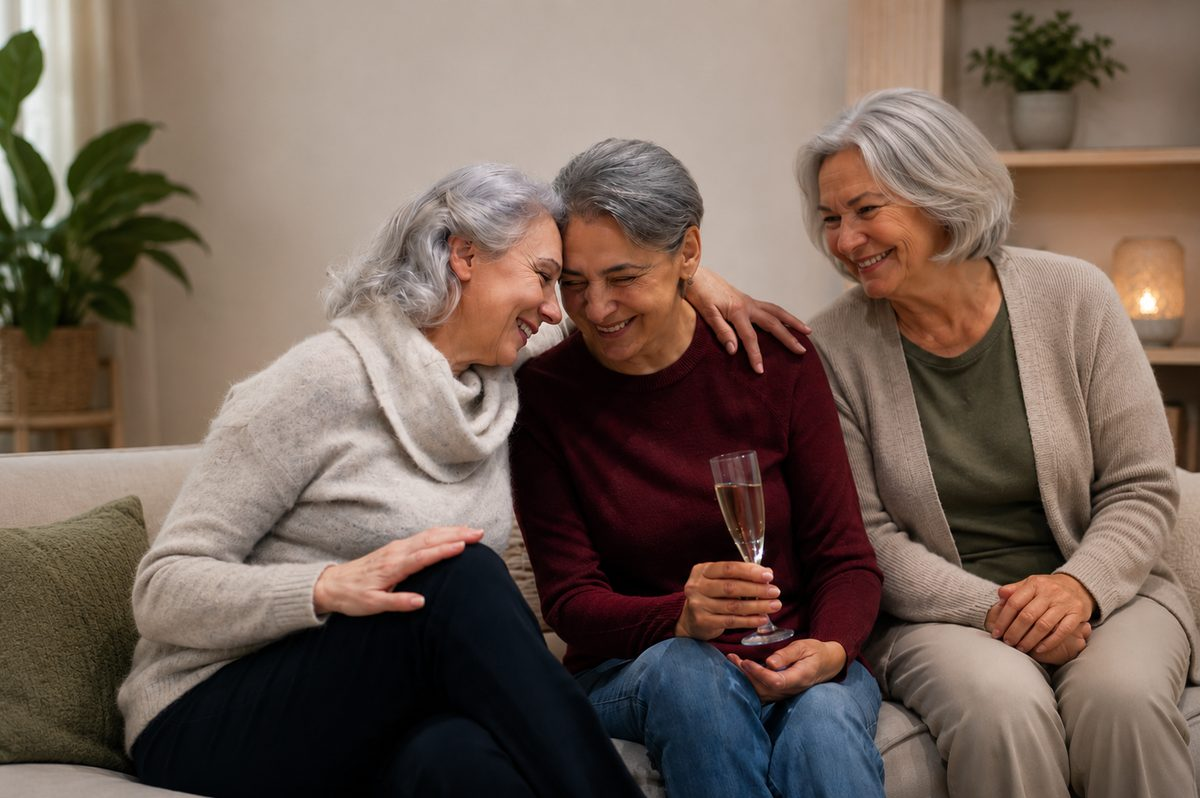
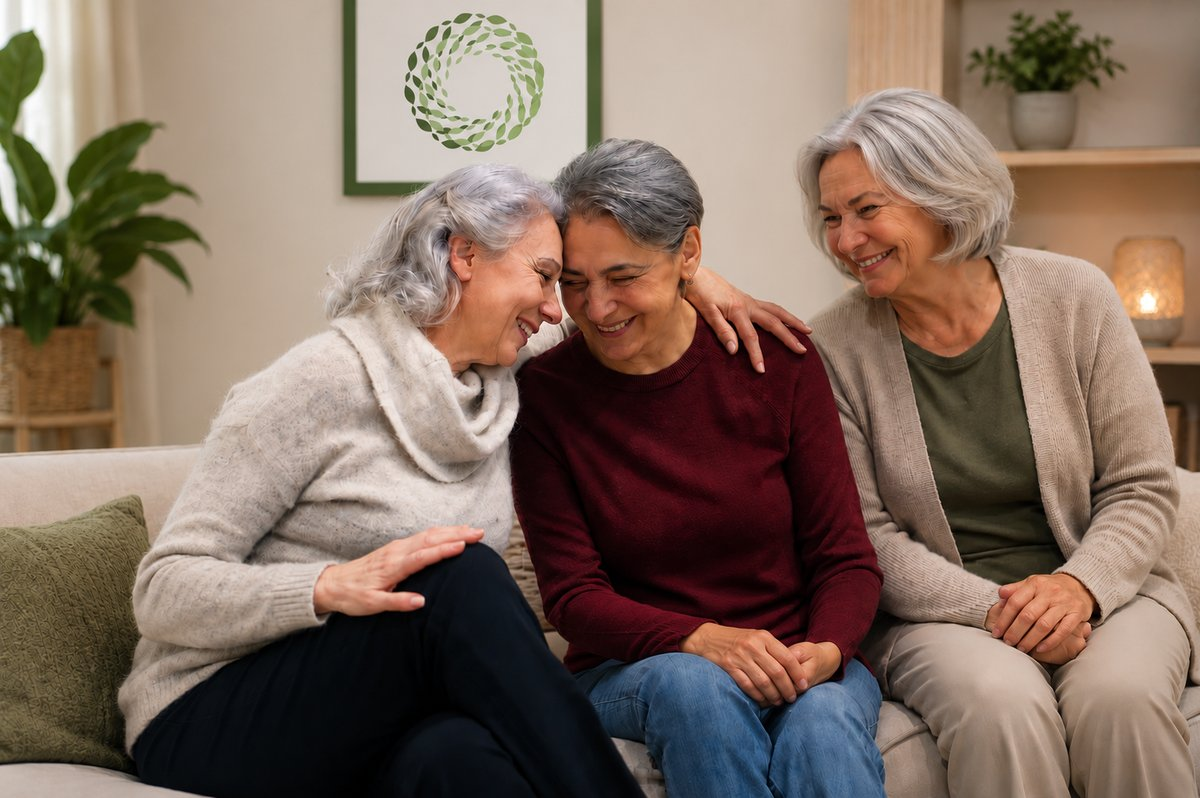
sin cava

diff --git a/js/data.js b/js/data.js
@@ -111,6 +111,23 @@ const EVENTS_DATA = [
     estat: 'proximament'
   },
   {
+    id: 'taller-angles-canpepus', tipo: 'taller',
+    titol: { ca: 'Conversa en anglès', es: 'Conversación en inglés' },
+    descripcio: {
+      ca: "Trobada setmanal per practicar l'anglès parlant, sense exàmens ni deures. Comencem pel que ja saps i anem fent. L'important és perdre la vergonya i passar-ho bé. Grup estable: la plaça et queda reservada per a totes les sessions.",
+      es: 'Encuentro semanal para practicar el inglés hablando, sin exámenes ni deberes. Empezamos por lo que ya sabes y vamos haciendo. Lo importante es perder la vergüenza y pasarlo bien. Grupo estable: la plaza te queda reservada para todas las sesiones.'
+    },
+    entitat: { ca: 'Casal de la Solidaritat Can Pepus', es: 'Casal de la Solidaritat Can Pepus' },
+    ubicacio: { ca: 'Can Pepus, Raval (Badalona)', es: 'Can Pepus, Raval (Badalona)' },
+    mapa_url: 'https://maps.google.com/?q=Casal+Can+Pepus+Badalona',
+    data: '2026-10-08', hora: '18:00', durada: 90,
+    data_label: { ca: 'Cada setmana', es: 'Cada semana' },
+    cupo: 12, reservades: 0, preu_cents: 0, tipo_iva: 'exempt',
+    imatge: '/assets/taller-idioma.jpg',
+    imatge_lloc: '/assets/canpepus.jpg',
+    estat: 'proximament'
+  },
+  {
     id: 'taller-autodefensa-santroc', tipo: 'taller',
     titol: { ca: "Taller d'autodefensa", es: 'Taller de autodefensa' },
     descripcio: {

diff --git a/PATCH-v5-NOTES.md b/PATCH-v5-NOTES.md
@@ -1,4 +1,4 @@
-# Patch v4 — Auditoria de reserves + admin operatiu + pàgina de Recursos
+# Patch v5 — Auditoria + admin operatiu + Recursos + contingut (foto i taller nou)
 
 Acumulatiu: inclou tot el de la v1. Descomprimir sobre l'arrel del clon local.
 
@@ -120,6 +120,27 @@ Casals Cívics · La Teranyina).
 
 Cap d'ells és competència: són administracions. Quan tinguem guies pròpies s'afegeixen
 al mateix fitxer amb `propi: true` i destaquen visualment.
+
+---
+
+## BLOC D · Contingut
+
+| Fitxer | Canvi |
+|---|---|
+| `assets/taller-emocional.jpg` | Foto nova del taller de benestar emocional (1200px, q85) |
+| `assets/taller-emocional.webp` | Versió WebP de la mateixa foto |
+| `js/data.js` | Nou taller "Conversa en anglès" a Can Pepus |
+
+La foto substitueix l'anterior amb el mateix nom, així que no cal tocar cap referència.
+El taller nou fa servir `assets/taller-idioma.jpg`, que ja era al repo.
+
+Dades confirmades: gratuït, 12 places, grup setmanal estable. Com que el model no
+té un tipus "setmanal", es queda com a `taller` i el caràcter setmanal es comunica
+amb `data_label: 'Cada setmana'` i a la descripció. La data `2026-10-08` només
+serveix per ordenar; ⚑ falta saber quin dia de la setmana és.
+
+⚑ Pendent de decidir: una reserva d'aquest taller = plaça al grup per a tot el curs
+(model actual, coherent amb cupo 12) o inscripció sessió a sessió.
 
 ---
 
